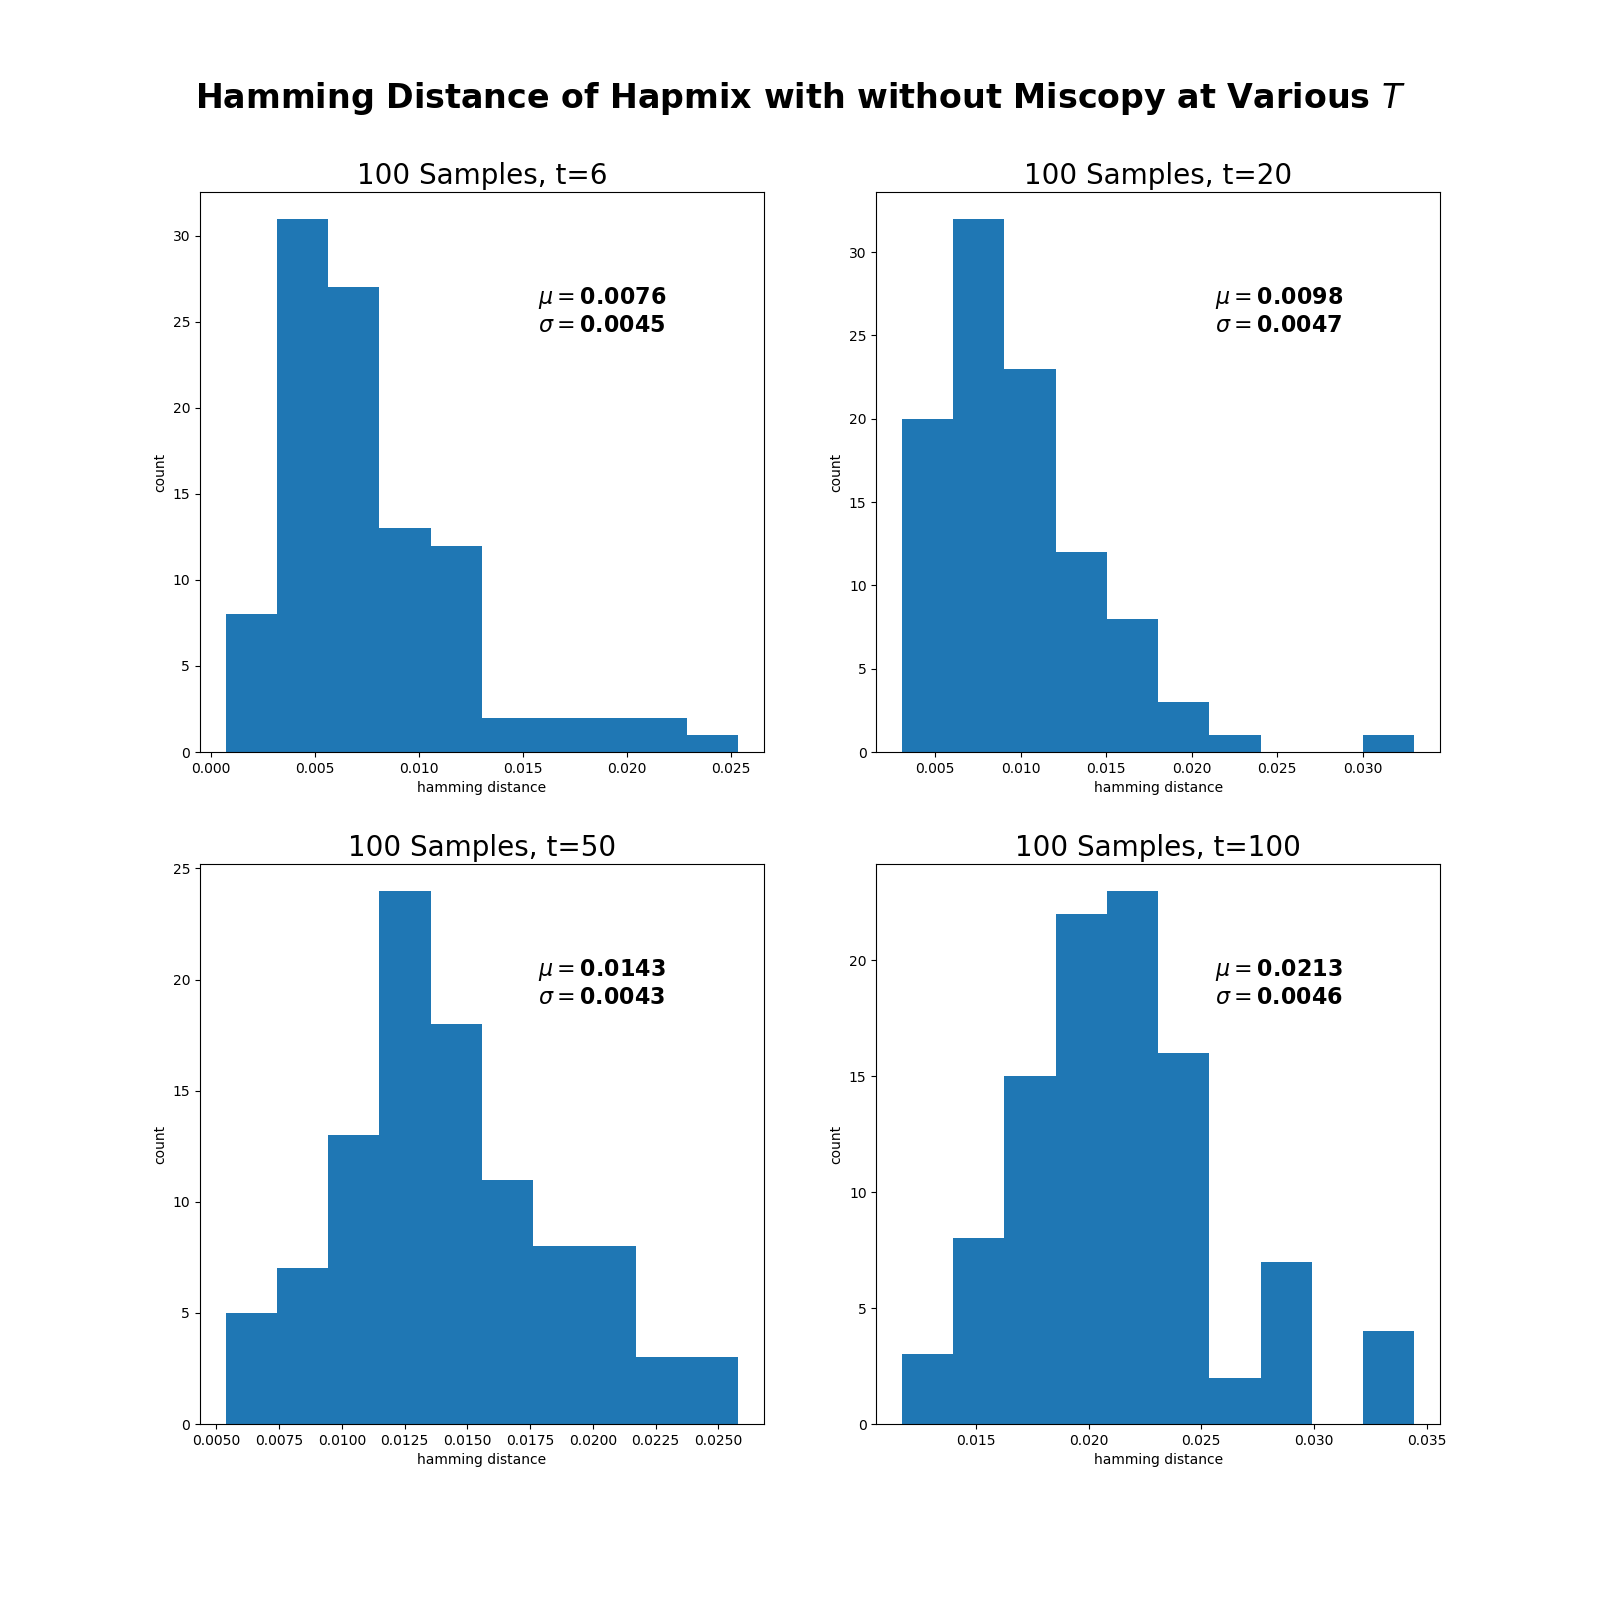
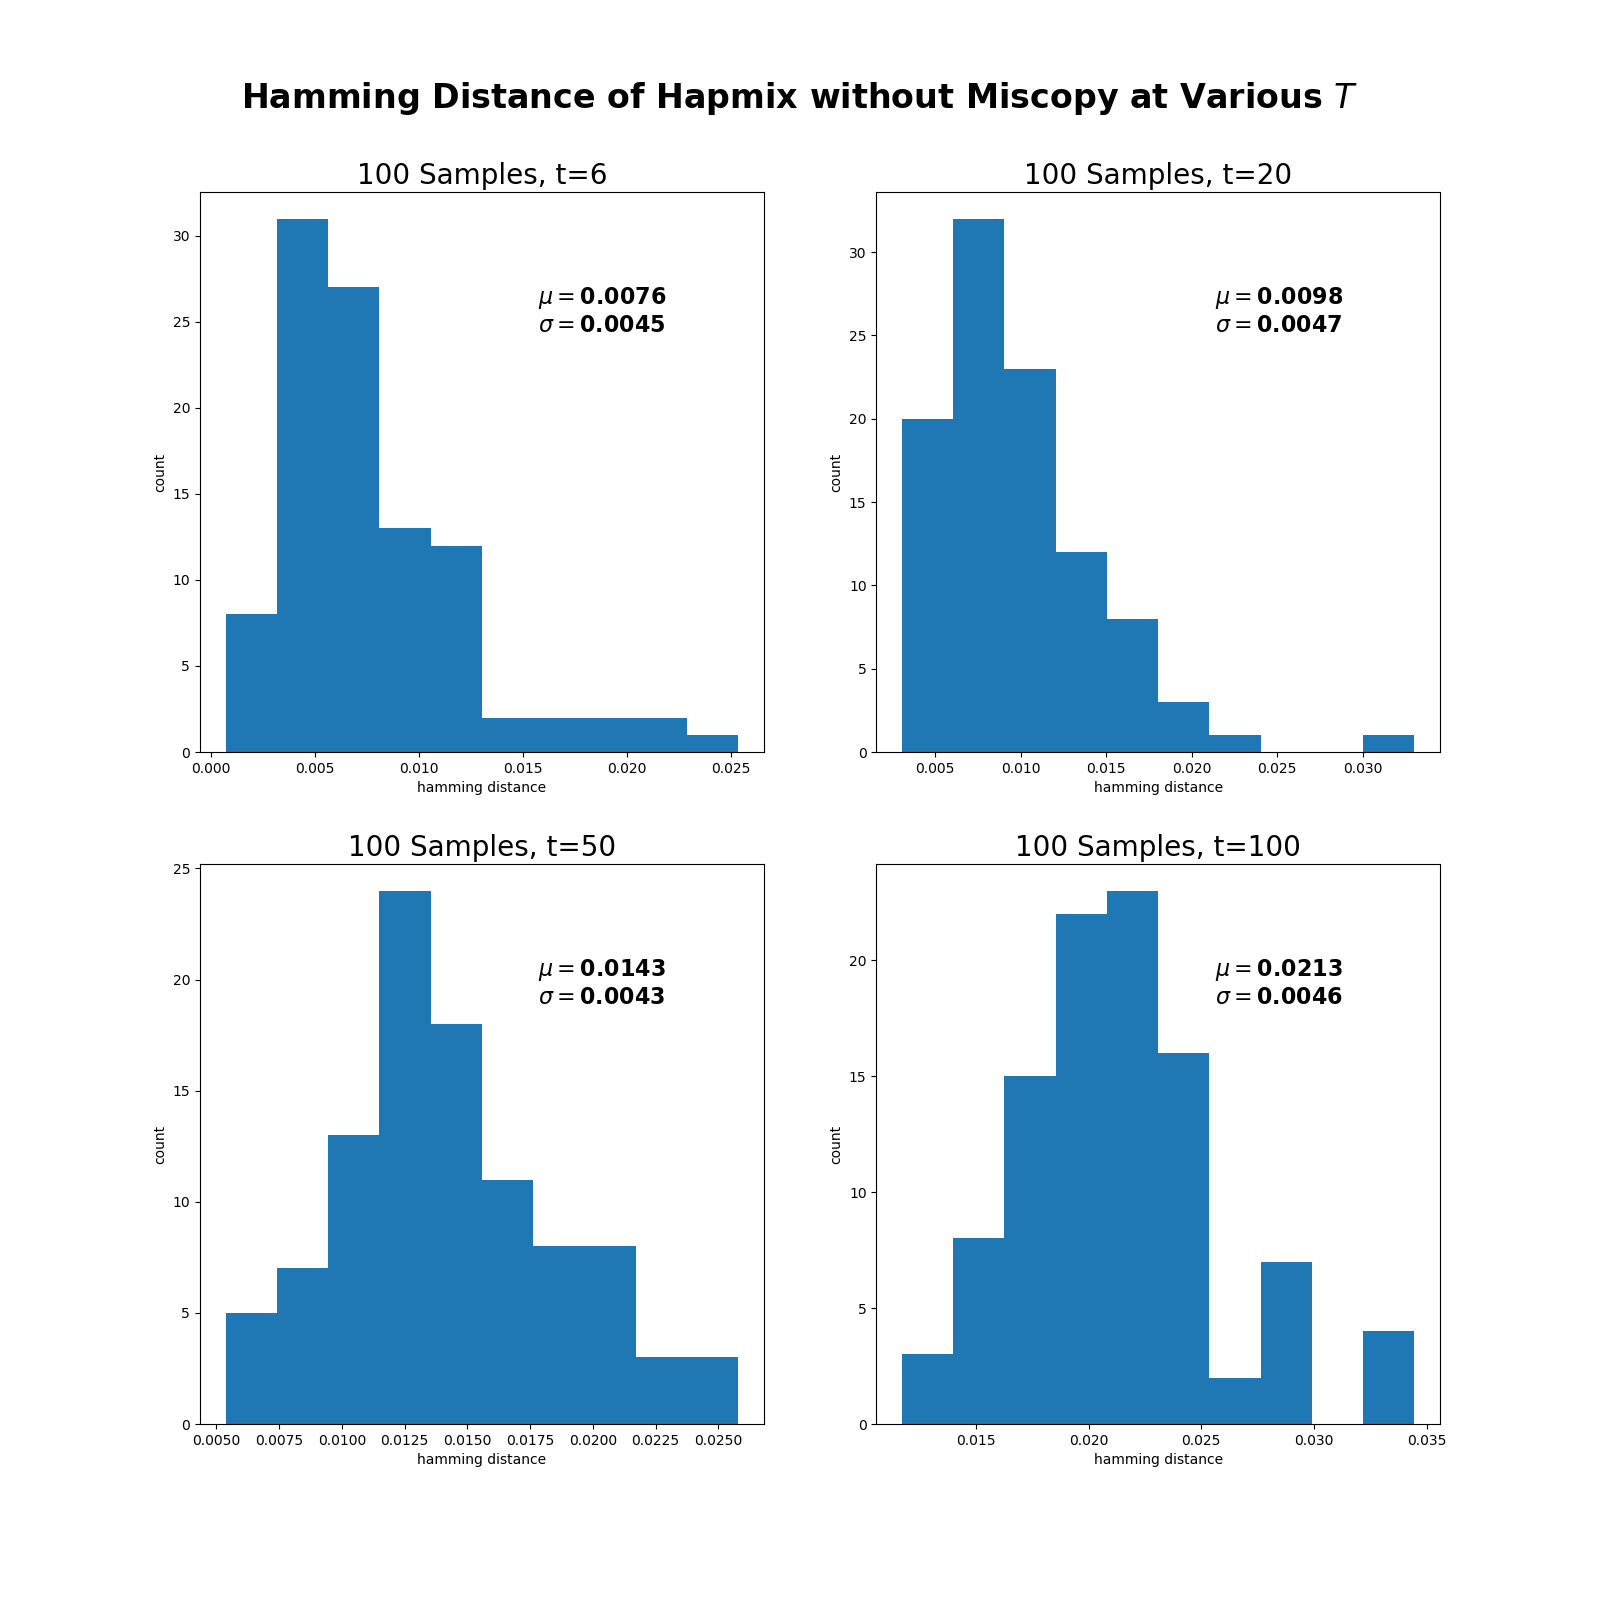
updates to figures

Changed region(s): [[0.2188, 0.0312, 0.875, 0.0938], [0.125, 0.0312, 0.1875, 0.0938]]

diff --git a/calibrate.py b/calibrate.py
@@ -119,7 +119,7 @@ def main():
     plt.figure()
     plt.xlabel('Posterior probability of originating from CEU')
     plt.ylabel('Empirical probability of originating from CEU')
-    plt.title('Posterior Probability Calibration for Hapmix Miscopy=0.05')
+    plt.title('Posterior Probability Calibration for Hapmix without Miscopy')
     plt.plot([0,1],[0,1], color='black',linewidth=2)
     for decodeFile, refAncestryFile, c, label in zip(decodeFileList, refAncestryFileList, color, labels):
         print(f'processing {refAncestryFile}')
@@ -133,7 +133,7 @@ def main():
     # plot histogram of rsquared
     fig, ax = plt.subplots(2,2,figsize=(16,16))
     # here rsquared is a vector of r^2 of samples in each value of t
-    fig.suptitle(f'Hamming Distance of Hapmix with Miscopy=0.05 at Various $T$', y=0.95, fontsize=24, fontweight='bold')
+    fig.suptitle(f'Hamming Distance of Hapmix without Miscopy at Various $T$', y=0.95, fontsize=24, fontweight='bold')
     for i, (hamDist, label) in enumerate(zip(ham, labels)):
         row = math.floor(i/2)
         col = i - row*2
